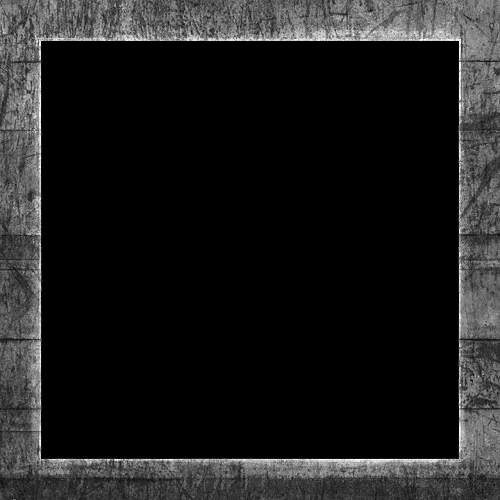
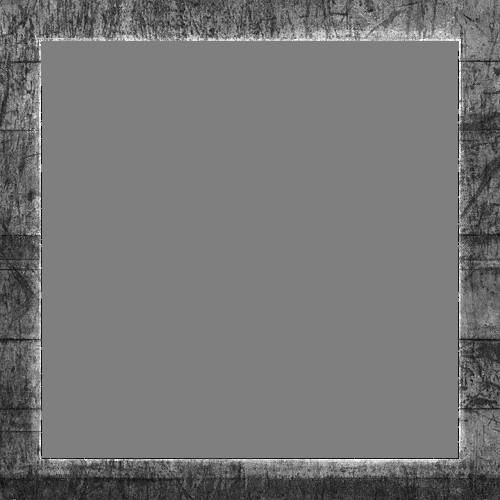
working daylight

diff --git a/src/Core/Render/Camera.ts b/src/Core/Render/Camera.ts
@@ -25,11 +25,11 @@ export interface Camera {
 export class SimpleCamera implements Camera {
     private static readonly Log: LogInterface = LogInstance;
 
-    position: vec3 = {x: 4, y: 3, z: 8};
-    target: vec3 = {x: 0, y: 0, z: 0};
+    position: vec3 = {x: 4, y: 8, z: 4};
+    target: vec3 = {x: 0, y: -1.0, z: 0};
 
     nearPlane: number = 0.5;
-    farPlane: number = 100;
+    farPlane: number = 25;
     fovDeg: number = 45;
 
     protected projection_matrix: mat4;
@@ -42,18 +42,25 @@ export class SimpleCamera implements Camera {
     }
 
     recalculateMatrices() {
+        this.recalculatePerspective();
+        this.recalculateViewMatrix();
+
+    }
+    recalculatePerspective() {
         this.projection_matrix = getPerspectiveMatrix(
             radians(this.fovDeg),
             1, // MainController.CanvasController.getAspect(),
             this.nearPlane,
             this.farPlane
         );
+        this.undo_projection_matrix = invertMatrix(this.projection_matrix);
+    }
+    recalculateViewMatrix() {
         this.view_matrix = lookAtMatrix(
             this.position,
             this.target,
             {x: 0, y: 1, z: 0}
         );
-        this.undo_projection_matrix = invertMatrix(this.projection_matrix);
         this.undo_view_matrix = invertMatrix(this.view_matrix);
     }
 
@@ -105,6 +112,13 @@ export class SimpleCamera implements Camera {
     }
 
     update(time: number) {
+        const position: number = (time * 0.0009) % (2 * Math.PI);
 
+        this.position = {
+            x: Math.sin(position) * 9,
+            y: 5,
+            z: Math.cos(position) * 9
+        };
+        this.recalculateViewMatrix();
     }
 }

diff --git a/src/Main/BasicScene/BasicScene.ts b/src/Main/BasicScene/BasicScene.ts
@@ -8,21 +8,24 @@ import {DayLight} from "../../Core/Render/Resource/Light/DayLight";
 export class BasicScene implements Scene
 {
     camera: Camera = new SimpleCamera();
-    day_light: DayLight = new DayLight()
+    day_light: DayLight = new DayLight();
 
 
     private groundPlane: StaticPlaneObject = new StaticPlaneObject();
     private exampleCube: DynamicCubeObject = new DynamicCubeObject();
     private exampleCube2: DynamicCubeObject = new DynamicCubeObject();
+    private exampleCube3: DynamicCubeObject = new DynamicCubeObject();
 
     init() {
-        this.groundPlane.model.transformation.scale(4).moveY(-0.5).apply();
+        this.groundPlane.model.transformation.scale(6).moveY(-3).apply();
         this.exampleCube.model.transformation.moveX(-0.5).apply();
-        this.exampleCube2.model.transformation.moveX(0.5).apply();
+        this.exampleCube2.model.transformation.moveX(0.5).moveY(0.2).moveZ(0.3).apply();
+        this.exampleCube3.model.transformation.scale(3).moveY(-2).rotateY(45).apply();
         // push some objects
         MainController.pushSceneObject(this.groundPlane);
         MainController.pushSceneObject(this.exampleCube);
         MainController.pushSceneObject(this.exampleCube2);
+        MainController.pushSceneObject(this.exampleCube3);
 
         // make a fail push to test saftyness and no double insert
         MainController.pushSceneObject(this.exampleCube);

diff --git a/src/Core/Controller/RenderController.ts b/src/Core/Controller/RenderController.ts
@@ -242,19 +242,28 @@ class RenderController implements RenderControllerInterface {
             width: MainController.CanvasController.getWidth()
         };
         const aspect = this.frame_info.width / this.frame_info.height;
-        const height = 1 / aspect;
-        const bottom = (1 - height) / 2;
-        const top = bottom + height;
-
+        let top, bottom, left, right;
+        if(aspect > 1) {
+            const height = 1 / aspect;
+            bottom = (1 - height) / 2;
+            top = bottom + height;
+            left = 0.0;
+            right = 1.0;
+        }else {
+            left = (1 - aspect) / 2;
+            right = left + aspect;
+            top = 1.0;
+            bottom = 0.0;
+        }
         const GL = MainController.CanvasController.getGL();
         GL.bindBuffer(GL.ARRAY_BUFFER, this.plane_texture_buffer);
         const texData = [
-            0.0, top,
-            0.0, bottom,
-            1.0, top,
-            0.0, bottom,
-            1.0, bottom,
-            1.0, top,
+            left, top,
+            left, bottom,
+            right, top,
+            left, bottom,
+            right, bottom,
+            right, top,
         ];
         GL.bufferData(GL.ARRAY_BUFFER, new Float32Array(texData), GL.DYNAMIC_DRAW);
         GL.bindBuffer(GL.ARRAY_BUFFER, null);

diff --git a/src/Core/Controller/MainController.ts b/src/Core/Controller/MainController.ts
@@ -34,7 +34,7 @@ export class MainController {
         MainController.CanvasController.init();
         MainController.ShaderController.loadShader();
         MainController.RenderController.prepareRenderPasses();
-        MainController.setFps(1);
+        MainController.setFps(60);
         MainController.loop();
     }
 
@@ -115,7 +115,7 @@ export class MainController {
         MainController.RenderController.initRenderPassRun();
         // MainController.RenderController.shadowPass();
         MainController.RenderController.geometryPass();
-        // MainController.RenderController.framebufferDebugPass();
+        MainController.RenderController.framebufferDebugPass();
         MainController.RenderController.lightningPass();
         // MainController.RenderController.postProcessPass();
 

diff --git a/src/Core/Render/Resource/Light/DayLight.ts b/src/Core/Render/Resource/Light/DayLight.ts
@@ -4,9 +4,9 @@ import {DeferredLightningShader} from "../../Shader/DeferredLightningShader";
 import {flatVec3} from "../../../Geometry/Vector/flatten";
 
 export class DayLight {
-    ambient_color: vec3 = {x: 0.5, y: 0.5, z: 0.5};
+    ambient_color: vec3 = {x: 0.2, y: 0.2, z: 0.2};
     directional_color: vec3 = {x: 0.8, y: 0.8, z: 0.8};
-    directional_direction: vec3 = {x: -0.5, y: -1.0, z: -0.5};
+    directional_direction: vec3 = {x: -0.5, y: -0.5, z: -0.5};
     update(time: number) {}
 
     use(GL: WebGL2RenderingContext) {

diff --git a/src/Core/Controller/SceneController.ts b/src/Core/Controller/SceneController.ts
@@ -38,6 +38,8 @@ class SceneController implements SceneControllerInterface {
 
     updateScene(time: number) {
         if(this.scene !== undefined) {
+            this.scene.camera.update(time);
+            this.scene.day_light.update(time);
             this.scene.update(time);
         }
     }

diff --git a/src/Main/BasicScene/Models/Materials/ContainerMaterial.ts b/src/Main/BasicScene/Models/Materials/ContainerMaterial.ts
@@ -9,6 +9,6 @@ export class ContainerMaterial extends DefaultTextureMaterial {
 
     albedo_texture: Texture = new ContainerTexture();
     specular_texture: Texture = new ContainerSpecTexture();
-    shininess: number = 0.2;
+    shininess: number = 0.05;
     transparency: number = 0;
 }
